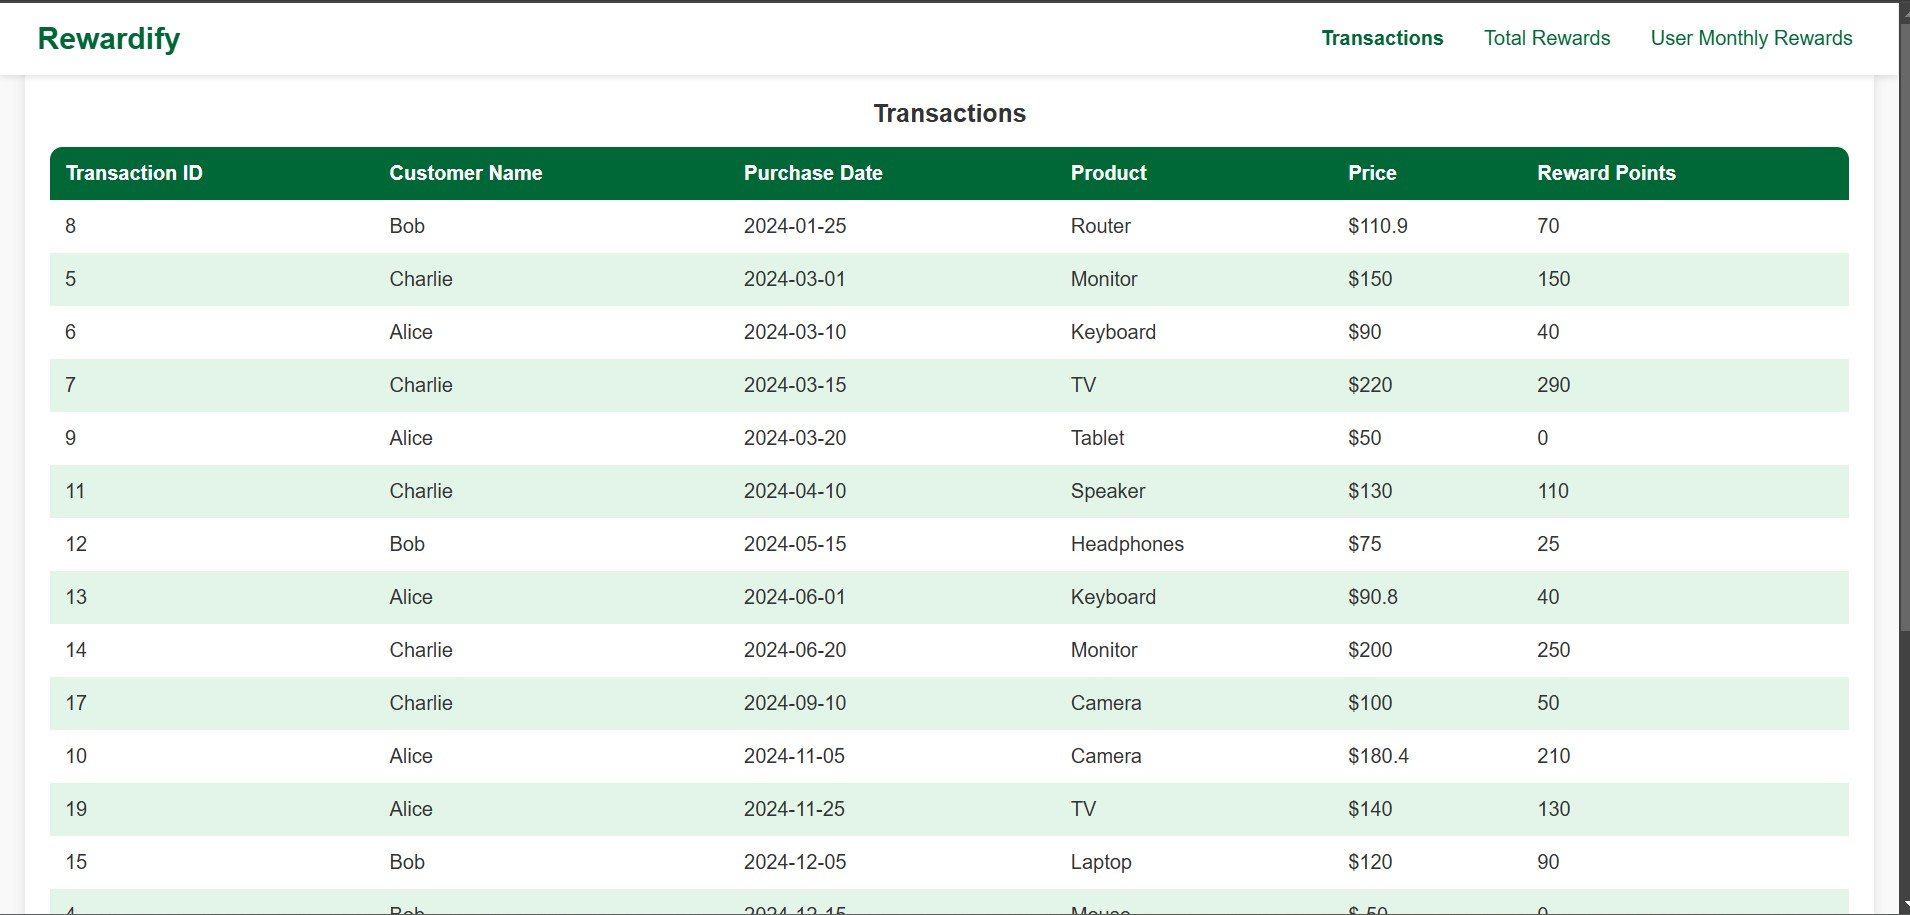
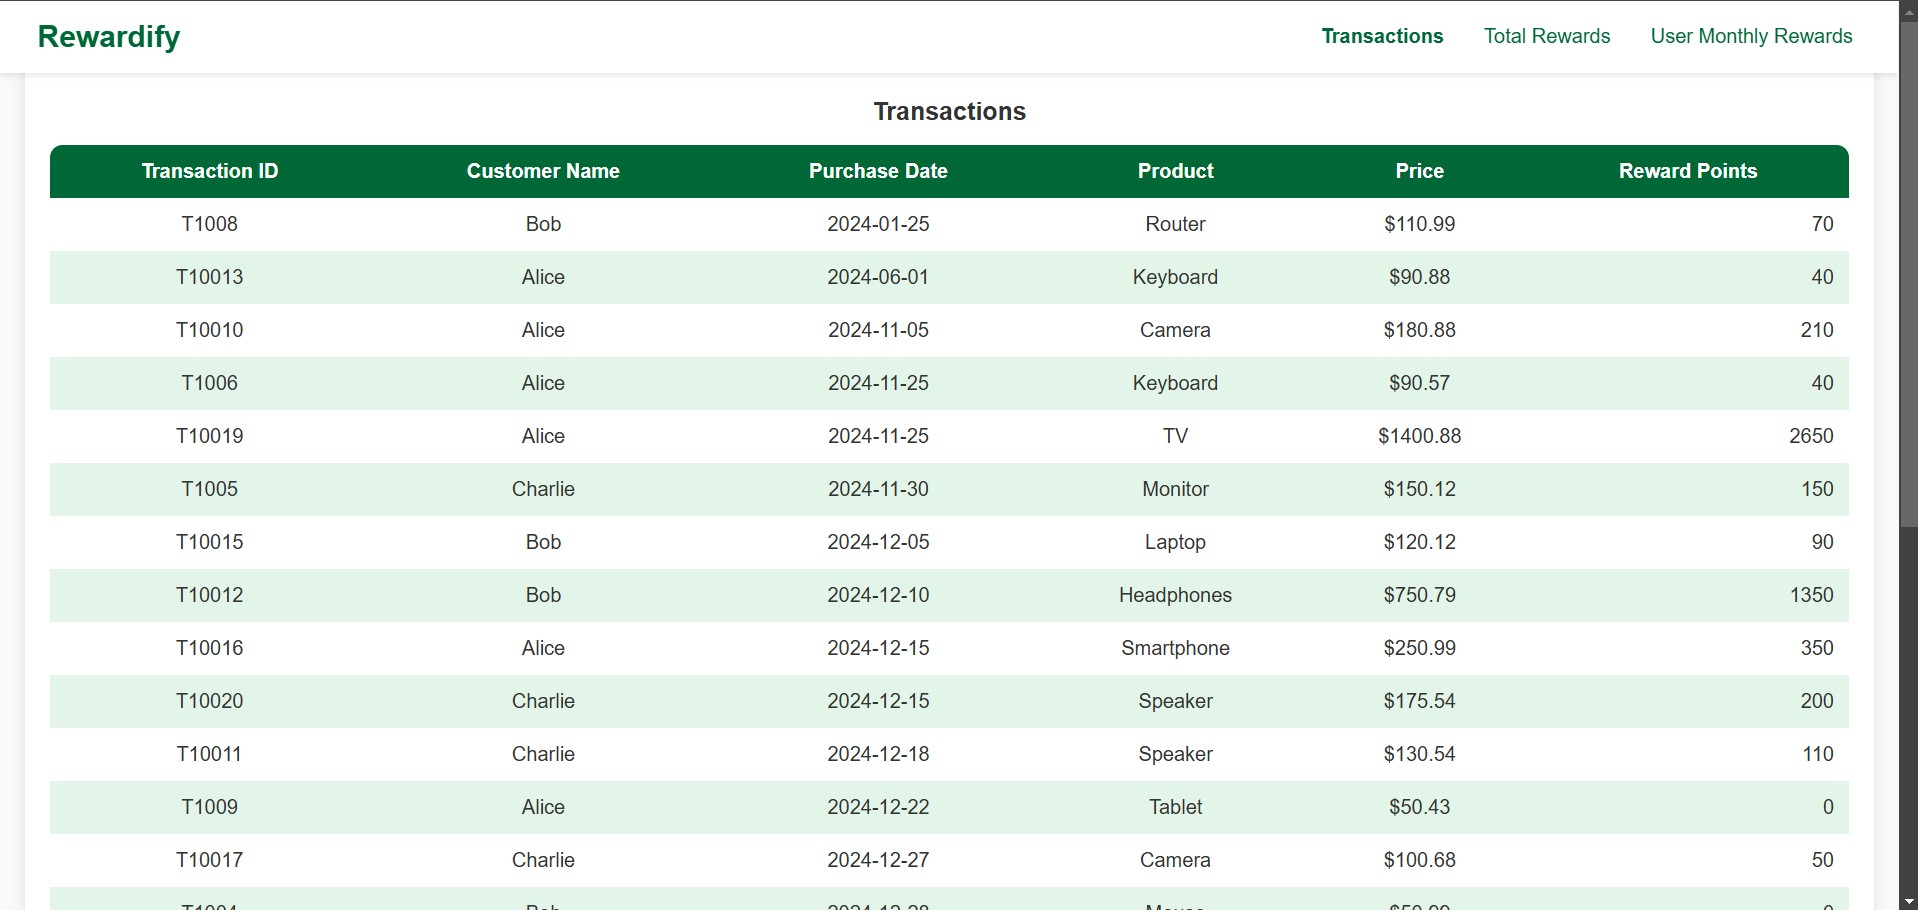
Update css

diff --git a/src/index.css b/src/index.css
@@ -1,13 +1,13 @@
 body {
   margin: 0;
-  font-family: -apple-system, BlinkMacSystemFont, 'Segoe UI', 'Roboto', 'Oxygen',
-    'Ubuntu', 'Cantarell', 'Fira Sans', 'Droid Sans', 'Helvetica Neue',
+  font-family: -apple-system, BlinkMacSystemFont, "Segoe UI", "Roboto", "Oxygen",
+    "Ubuntu", "Cantarell", "Fira Sans", "Droid Sans", "Helvetica Neue",
     sans-serif;
   -webkit-font-smoothing: antialiased;
   -moz-osx-font-smoothing: grayscale;
 }
 
 code {
-  font-family: source-code-pro, Menlo, Monaco, Consolas, 'Courier New',
+  font-family: source-code-pro, Menlo, Monaco, Consolas, "Courier New",
     monospace;
 }

diff --git a/src/components/TransactionDetails.js b/src/components/TransactionDetails.js
@@ -31,7 +31,7 @@ const TransactionDetails = ({ transactions }) => {
                 <td>{transaction.purchaseDate}</td>
                 <td>{transaction.productName}</td>
                 <td>${formatPrice(transaction.price)}</td>
-                <td>{calculatePoints(transaction.price)}</td>
+                <td className="right-aligned">{calculatePoints(transaction.price)}</td>
               </tr>
             );
           })}

diff --git a/src/components/MonthRewards.js b/src/components/MonthRewards.js
@@ -32,7 +32,7 @@ const MonthRewards = ({ transactions }) => {
               <td>{reward.customerName}</td>
               <td>{reward.month}</td>
               <td>{reward.year}</td>
-              <td>{reward.rewardPoints}</td>
+              <td className="right-aligned">{reward.rewardPoints}</td>
             </tr>
           ))}
         </tbody>

diff --git a/src/App.css b/src/App.css
@@ -99,7 +99,6 @@ body {
   background: #006837;
   color: white;
 }
-
 .table th,
 .table td {
   padding: 12px;
@@ -199,4 +198,7 @@ body {
   .loading {
     font-size: 14px;
   }
+}
+.right-aligned {
+  text-align: right !important;
 }

diff --git a/README.md b/README.md
@@ -125,7 +125,7 @@ The calculatePoints(price) function is used to compute the reward points based o
 
 Prices are parsed to ensure they are valid floating-point numbers.
 
-<img src="./public/media/Transaction.jpg"/>
+<img src="./public/media/Transactions.jpg"/>
 
 If transactions prop is empty then it will show below error.
 
